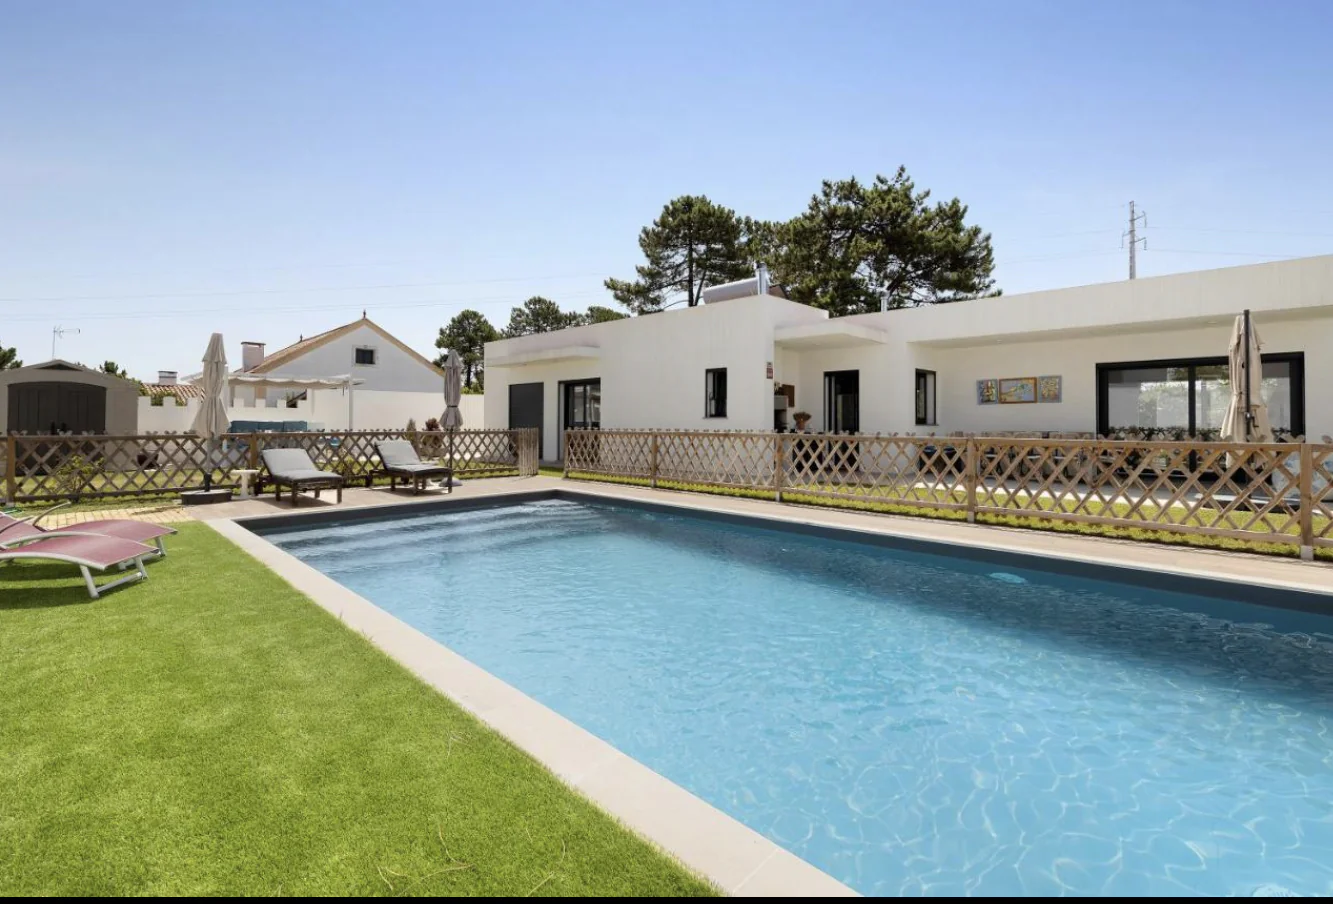
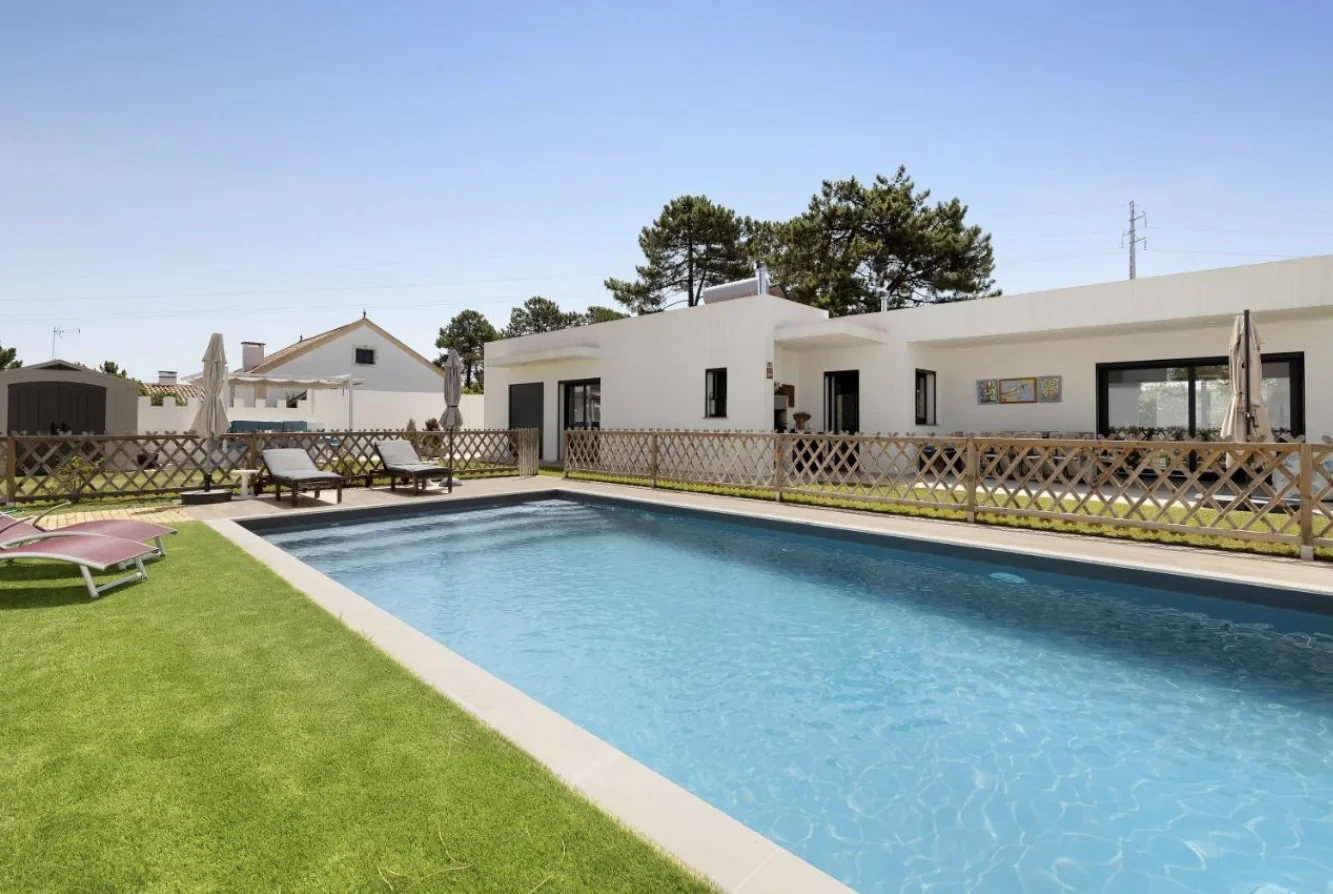
Fix black border artifacts in testimonial gallery photos
- Add explicit background color to gallery Image elements to avoid a
  black flash while next/image decodes
- Crop an 8px baked-in black strip from the bottom of Olive Tree
  House's hero photo (IMG_5339.webp), which was visible on object-cover
  crops that kept the image's full height
- Remove duplicate dolcePlace photos ("- Cópia" files) that broke on
  Vercel due to NFD/NFC Unicode filename mismatches, and harden the
  image generator script to normalize filenames before filtering them

diff --git a/components/sections/testimonials-section.tsx b/components/sections/testimonials-section.tsx
@@ -303,7 +303,7 @@ function TestimonialGallery({
                       src={src}
                       alt={`${author} — ${index + 2}`}
                       fill
-                      className="object-cover"
+                      className="bg-[#F0F4F2] object-cover"
                       sizes="120px"
                     />
                   </div>
@@ -336,7 +336,7 @@ function GalleryImage({
         src={src}
         alt={alt}
         fill
-        className="object-cover transition-transform duration-700 ease-out group-hover:scale-[1.02]"
+        className="bg-[#F0F4F2] object-cover transition-transform duration-700 ease-out group-hover:scale-[1.02]"
         sizes={sizes}
         priority={priority}
       />

diff --git a/lib/accommodation-images.ts b/lib/accommodation-images.ts
@@ -620,9 +620,7 @@ export const accommodationImages: Record<string, string[]> = {
   "dolceplace": [
     "/images/listings/dolcePlace/21-c63.webp",
     "/images/listings/dolcePlace/03-c63.webp",
-    "/images/listings/dolcePlace/02-c63%20-%20Co%CC%81pia.webp",
     "/images/listings/dolcePlace/10-c63.webp",
-    "/images/listings/dolcePlace/01-c63%20-%20Co%CC%81pia.webp",
     "/images/listings/dolcePlace/18-c63.webp",
     "/images/listings/dolcePlace/23-c63.webp",
     "/images/listings/dolcePlace/19-c63.webp",
